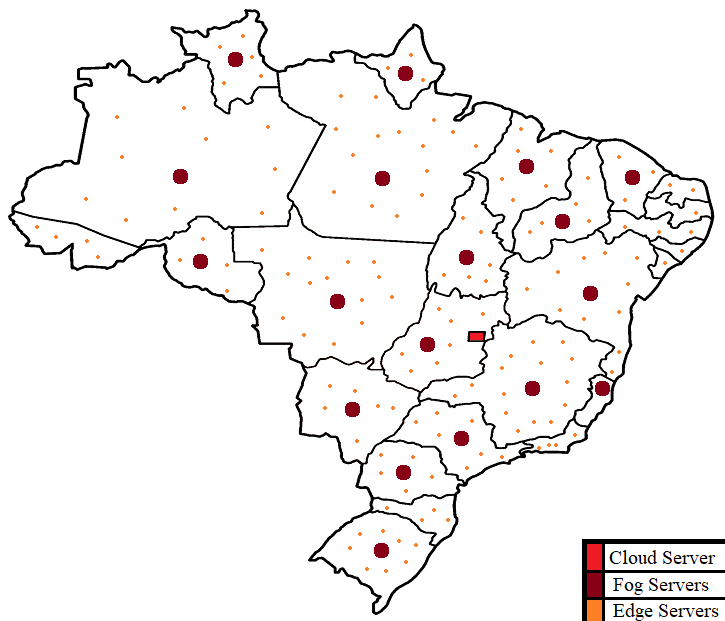
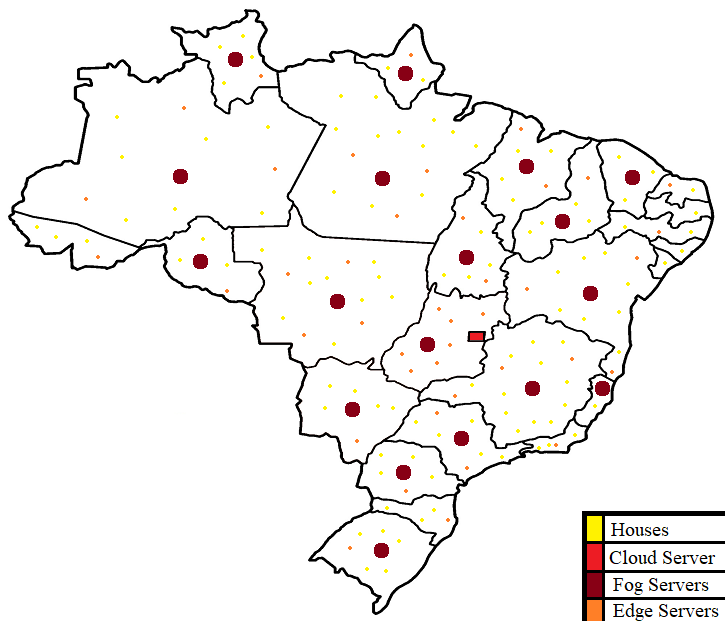
Novas imagens e classe base

Changed region(s): [[0.789, 0.7955, 1.0, 0.8873]]

diff --git a/Simulation-EdgeFogCloud/src/main/java/de/nec/nle/siafu/edgeFogCloud/AgentModel.java b/Simulation-EdgeFogCloud/src/main/java/de/nec/nle/siafu/edgeFogCloud/AgentModel.java
@@ -22,9 +22,10 @@ package de.nec.nle.siafu.edgeFogCloud;
 import static de.nec.nle.siafu.edgeFogCloud.Constants.DEFAULT_SPEED;
 import static de.nec.nle.siafu.edgeFogCloud.Constants.POPULATION;
 import static de.nec.nle.siafu.edgeFogCloud.Constants.Fields.ACTIVITY;
-import static de.nec.nle.siafu.edgeFogCloud.Constants.Fields.SERVER;
+import static de.nec.nle.siafu.edgeFogCloud.Constants.Fields.PDATA;
+import static de.nec.nle.siafu.edgeFogCloud.Constants.Fields.ORIGIN;
 import static de.nec.nle.siafu.edgeFogCloud.Constants.Fields.TEMPORARY_DESTINATION;
-import static de.nec.nle.siafu.edgeFogCloud.Constants.Fields.TYPE;
+import static de.nec.nle.siafu.edgeFogCloud.Constants.Fields.SENDER;
 
 import java.util.ArrayList;
 import java.util.Calendar;
@@ -90,30 +91,33 @@ public class AgentModel extends BaseAgentModel {
 	 * This method creates all the workers for the office simulation.
 	 * 
 	 * @param packages the array where you need to put your created agents
-	 * @param type the type of package (reduced vs original)
-	 * @param serverType the type of server of origin (edge vs fog) 
+	 * @param sender the the application that sent the package (1 vs 2)
+	 * @param origin the type of place of origin (edge vs house) 
 	 */
 	private void createPackage(final ArrayList<Agent> packages,
-			final String type, final String serverType) {
-		Iterator<Place> serverIt;
+			final String sender, final String origin) {
+		Iterator<Place> originIt;
 		try {
-			serverIt = world.getPlacesOfType(serverType).iterator();
+			originIt = world.getPlacesOfType(origin).iterator();
 		} catch (PlaceTypeUndefinedException e) {
-			throw new RuntimeException("No staff desks defined", e);
+			throw new RuntimeException("No houses or edge servers defined", e);
 		}
 
 		int i = 0;
-		while (serverIt.hasNext()) {
-			Place server = serverIt.next();
-
-			Agent a =
-					new Agent(type + "-" + i, cloudServer.getPos(), "HumanBlue",
-							world);
-			a.setVisible(false);
+		while (originIt.hasNext()) {
+			Place placeOfOrigin = originIt.next();
 			String packageData;
 
-			a.set(TYPE, new Text(type));
-			a.set(SERVER, server);
+			Agent a =
+					new Agent(sender + "-" + i, cloudServer.getPos(), "HumanBlue",
+							world);
+			a.setVisible(false);
+			
+			packageData = "x,x,x";
+			
+			a.set(SENDER, new Text(sender));
+			a.set(PDATA, new Text(packageData));
+			a.set(ORIGIN, placeOfOrigin);
 			a.set(ACTIVITY, Activity.ONHOLD);
 			a.set(TEMPORARY_DESTINATION, new Text("None"));
 			a.setSpeed(DEFAULT_SPEED);
@@ -155,6 +159,14 @@ public class AgentModel extends BaseAgentModel {
 			switch ((Activity) a.get(ACTIVITY)) {
 			case ONHOLD:
 				break;
+			case GOING_2_CLOUD:
+				break;
+			case GOING_2_FOG:
+				break;
+			case GOING_2_EDGE:
+				break;
+			case INVISIBLE:
+				break;
 			default:
 				throw new RuntimeException("Unknown Activity");
 			}
@@ -170,8 +182,18 @@ public class AgentModel extends BaseAgentModel {
 	 * Send the agent to a fog server.
 	 * 
 	 */
-	private void goToFog(final Agent a, Place server) {
-		a.setDestination(server);
+	private void goToEdge(final Agent a, Place edgeServer) {
+		a.setDestination(edgeServer);
+		a.set(ACTIVITY, Activity.GOING_2_EDGE);
+	}
+
+
+	/**
+	 * Send the agent to a fog server.
+	 * 
+	 */
+	private void goToFog(final Agent a, Place fogServer) {
+		a.setDestination(fogServer);
 		a.set(ACTIVITY, Activity.GOING_2_FOG);
 	}
 
@@ -182,6 +204,24 @@ public class AgentModel extends BaseAgentModel {
 	private void goToCloud(final Agent a) {
 		a.setDestination(cloudServer);
 		a.set(ACTIVITY, Activity.GOING_2_CLOUD);
+	}
+	
+	/**
+	 * Send the agent back to origin.
+	 * 
+	 */
+	private void sendToOrigin(final Agent a) {
+		Place origin = (Place) a.get(ORIGIN);
+		a.setPos(origin.getPos());
+		a.setVisible(false);
+		a.set(ACTIVITY, Activity.INVISIBLE);
+	}
+	/**
+	 * Set the agent's new origin.
+	 * 
+	 */
+	private void setOrigin(final Agent a, Place origin) {
+		a.set(ORIGIN, origin);
 	}
 	
 	/**

diff --git a/Simulation-EdgeFogCloud/src/main/java/de/nec/nle/siafu/edgeFogCloud/Constants.java b/Simulation-EdgeFogCloud/src/main/java/de/nec/nle/siafu/edgeFogCloud/Constants.java
@@ -52,12 +52,15 @@ public class Constants {
 	static class Fields {
 		/** The agent's current activity. */
 		public static final String ACTIVITY = "Activity";
+		
+		/** The data being transported by the agent. */
+		public static final String PDATA = "Package Data";
 
-		/** Whether the person's staff or student. */
-		public static final String TYPE = "Type";
+		/** Application that sent the data. */
+		public static final String SENDER = "Application";
 
-		/** The type of desk. */
-		public static final String SERVER = "Server";
+		/** The sender of the data. */
+		public static final String ORIGIN = "Place of Origin";
 
 		/** A temporary dfestination. */
 		public static final String TEMPORARY_DESTINATION =
@@ -74,9 +77,11 @@ public class Constants {
 		ONHOLD("On hold"),
 		/** The agent's reached at its destination and set to invisible. */
 		INVISIBLE("Invisible"),
+		/** The agent is going to a edge server. */
+		GOING_2_EDGE("Going2Edge"),
 		/** The agent is going to a fog server. */
 		GOING_2_FOG("Going2Fog"),
-		/** The agent is going to a cloud server. */
+		/** The agent is going to the cloud server. */
 		GOING_2_CLOUD("Going2Cloud");
 
 		/** Human readable description of the activity. */
